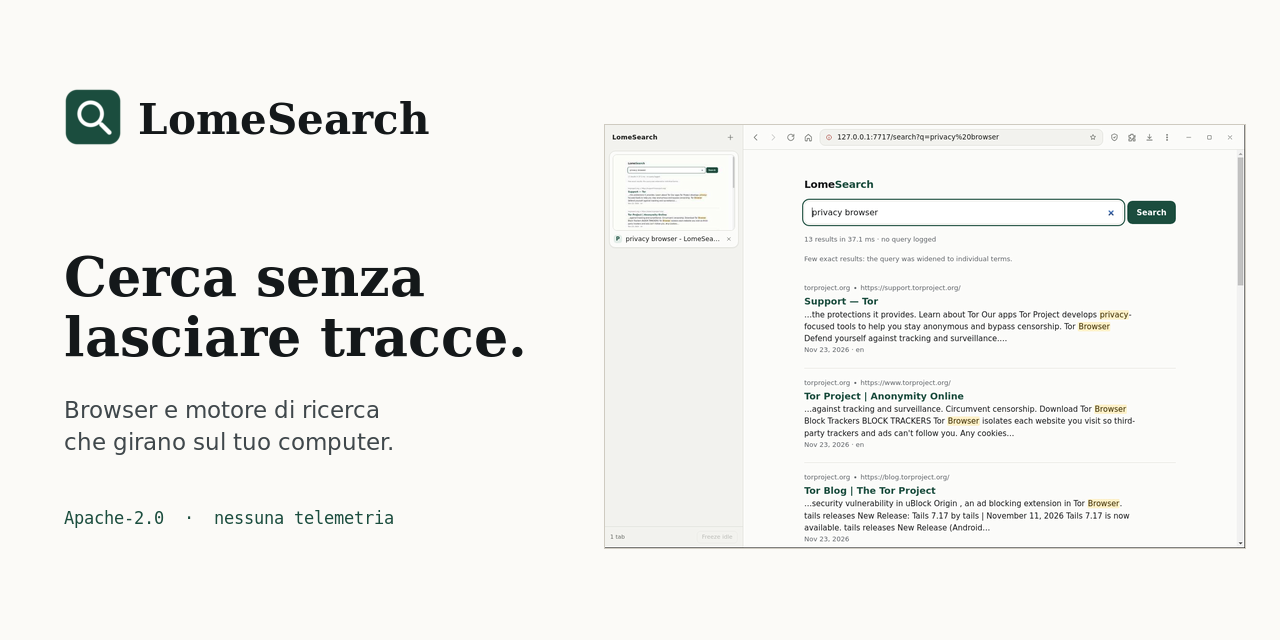
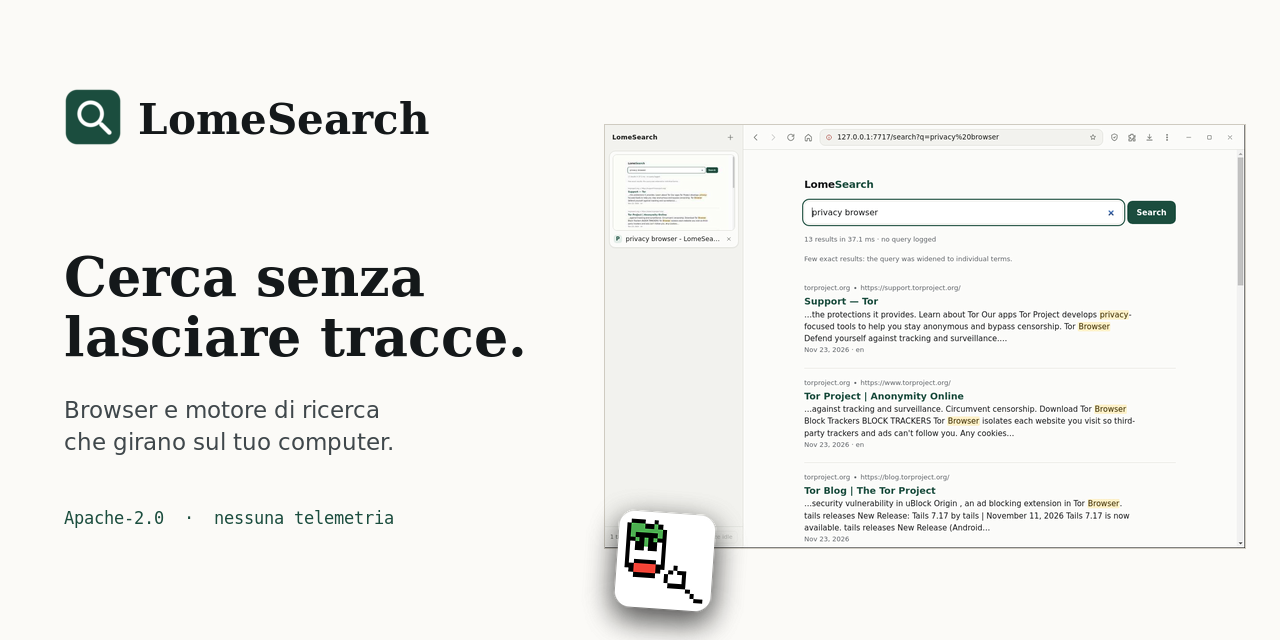
Put the mascot on the site, the error page and the empty results
The upload was a 1600x1600 pixel-art PNG on a 50px grid; it is now traced to
an 18x18 SVG (four paths, 813 bytes) so it stays crisp at every size. The
original export moves to site/assets/mascot/mascotte-source.png.

Surfaces using it: hero sticker on the screenshot corner, 404 page, og.png,
the browser error page and the engine's zero-results block.

Changed region(s): [[0.4688, 0.7812, 0.5938, 1.0]]

diff --git a/site/assets/css/site.css b/site/assets/css/site.css
@@ -22,6 +22,8 @@
   --mono: ui-monospace, SFMono-Regular, "SF Mono", Menlo, Consolas, "Liberation Mono", monospace;
   --radius: 4px;
   --radius-lg: 10px;
+  --mascot-plate: #ffffff;
+  --mascot-line: #cfcbc1;
 }
 
 [data-theme="dark"] {
@@ -39,6 +41,8 @@
   --green-soft: #16241f;
   --gold: #e0b25c;
   --gold-soft: #3b2e13;
+  --mascot-plate: #f7f5ef;
+  --mascot-line: #f7f5ef;
   --shadow: 0 30px 70px -40px rgba(0, 0, 0, 0.9);
 }
 
@@ -58,6 +62,8 @@
     --green-soft: #16241f;
     --gold: #e0b25c;
     --gold-soft: #3b2e13;
+    --mascot-plate: #f7f5ef;
+    --mascot-line: #f7f5ef;
     --shadow: 0 30px 70px -40px rgba(0, 0, 0, 0.9);
   }
 }
@@ -282,6 +288,28 @@ ol {
   display: none;
 }
 
+/* ---------- mascot ---------- */
+
+.mascot {
+  --mascot-size: 96px;
+  display: inline-grid;
+  place-items: center;
+  width: var(--mascot-size);
+  height: var(--mascot-size);
+  padding: calc(var(--mascot-size) * 0.1);
+  background: var(--mascot-plate);
+  border: 1px solid var(--mascot-line);
+  border-radius: calc(var(--mascot-size) * 0.16);
+  box-shadow: 0 20px 44px -26px rgba(9, 12, 11, 0.7);
+  line-height: 0;
+}
+
+.mascot img {
+  display: block;
+  width: 100%;
+  height: 100%;
+}
+
 /* ---------- hero ---------- */
 
 .hero {
@@ -294,6 +322,17 @@ ol {
   grid-template-columns: 1.08fr 1fr;
   gap: 3rem;
   align-items: center;
+}
+
+.hero__shot {
+  position: relative;
+}
+
+.hero__shot .mascot {
+  position: absolute;
+  left: -1.75rem;
+  bottom: -1.75rem;
+  transform: rotate(-4deg);
 }
 
 .kicker {
@@ -1163,6 +1202,12 @@ dialog.lightbox img {
   .hero__grid {
     grid-template-columns: 1fr;
     gap: 2.75rem;
+  }
+
+  .hero__shot .mascot {
+    --mascot-size: 64px;
+    left: 0.75rem;
+    bottom: -1.75rem;
   }
 
   .hero {

diff --git a/packages/engine/src/server/http.ts b/packages/engine/src/server/http.ts
@@ -54,6 +54,8 @@ const FAVICON = `<svg xmlns="http://www.w3.org/2000/svg" viewBox="0 0 32 32">
 <path d="M19 19l6 6" stroke="#e7f0ec" stroke-width="2.6" stroke-linecap="round"/>
 </svg>`;
 
+const MASCOT = `<svg xmlns="http://www.w3.org/2000/svg" viewBox="0 0 18 18" width="18" height="18" shape-rendering="crispEdges" role="img" aria-label="LomeSearch mascot"><path fill="#4caf50" d="M1 1h3v2h-3zM6 1h1v2h-1zM4 2h2v1h-2zM7 2h1v2h-1zM1 3h1v1h-1zM2 4h1v1h-1zM4 4h1v2h-1zM6 4h1v1h-1z"/><path fill="#000000" d="M1 0h3v1h-3zM6 0h1v1h-1zM0 1h1v10h-1zM4 1h2v1h-2zM7 1h1v1h-1zM8 2h1v9h-1zM2 3h5v1h-5zM1 4h1v1h-1zM3 4h1v3h-1zM5 4h1v3h-1zM7 4h1v1h-1zM2 5h1v2h-1zM6 5h1v2h-1zM2 9h5v1h-5zM1 10h1v2h-1zM7 10h1v2h-1zM11 10h1v1h-1zM10 11h1v1h-1zM12 11h2v1h-2zM2 12h5v1h-5zM9 12h1v2h-1zM13 12h1v3h-1zM10 14h3v1h-3zM14 15h1v1h-1zM15 16h1v1h-1zM16 17h2v1h-2z"/><path fill="#f44336" d="M2 10h5v2h-5z"/><path fill="#ffffff" d="M1 5h1v5h-1zM7 5h1v5h-1zM4 6h1v3h-1zM2 7h2v2h-2zM5 7h2v2h-2zM11 11h1v3h-1zM10 12h1v2h-1zM12 12h1v2h-1z"/></svg>`;
+
 class RateLimiter {
   private readonly buckets = new Map<string, { count: number; resetAt: number }>();
 
@@ -151,6 +153,15 @@ export async function startSearchServer(options: SearchServerOptions): Promise<S
         'cache-control': 'public, max-age=86400',
       });
       response.end(FAVICON);
+      return;
+    }
+
+    if (url.pathname === '/mascot.svg' && request.method === 'GET') {
+      response.writeHead(200, {
+        'content-type': 'image/svg+xml',
+        'cache-control': 'public, max-age=86400',
+      });
+      response.end(MASCOT);
       return;
     }
 

diff --git a/site/index.html b/site/index.html
@@ -206,20 +206,25 @@
             </ul>
           </div>
 
-          <div class="frame">
-            <div class="frame__bar">
-              <span class="frame__dot"></span>
-              <span class="frame__dot"></span>
-              <span class="frame__dot"></span>
-              <span class="frame__label">127.0.0.1:7717</span>
+          <div class="hero__shot">
+            <div class="frame">
+              <div class="frame__bar">
+                <span class="frame__dot"></span>
+                <span class="frame__dot"></span>
+                <span class="frame__dot"></span>
+                <span class="frame__label">127.0.0.1:7717</span>
+              </div>
+              <img
+                src="assets/shots/search.png"
+                width="1240"
+                height="820"
+                alt="La pagina dei risultati di LomeSearch: campo di ricerca, 13 risultati in 37,1 ms, snippet con i termini evidenziati."
+                fetchpriority="high"
+              />
             </div>
-            <img
-              src="assets/shots/search.png"
-              width="1240"
-              height="820"
-              alt="La pagina dei risultati di LomeSearch: campo di ricerca, 13 risultati in 37,1 ms, snippet con i termini evidenziati."
-              fetchpriority="high"
-            />
+            <span class="mascot" aria-hidden="true">
+              <img src="assets/mascot/mascotte.svg" width="18" height="18" alt="" />
+            </span>
           </div>
         </div>
       </section>

diff --git a/packages/engine/src/server/render.ts b/packages/engine/src/server/render.ts
@@ -94,6 +94,14 @@ p.snippet { margin: 0; font-size: 15px; color: var(--text); }
 mark { background: var(--mark); color: var(--mark-text); padding: 0 1px; border-radius: 2px; }
 .notice { background: var(--accent-soft); border: 1px solid var(--line); border-radius: 10px; padding: 12px 14px; font-size: 14px; }
 .empty { padding: 32px 0; }
+.empty .mascot {
+  display: block;
+  width: 64px;
+  height: 64px;
+  padding: 7px;
+  background: #ffffff;
+  border-radius: 12px;
+}
 .empty h2 { margin: 0 0 6px; font-size: 18px; }
 nav.pager { display: flex; gap: 10px; margin-top: 28px; }
 nav.pager a { padding: 8px 14px; border: 1px solid var(--line); border-radius: 8px; background: var(--surface); font-size: 14px; }
@@ -155,6 +163,7 @@ function renderResults(
   <p class="meta">No results for <strong>${escapeHtml(query)}</strong> in ${response.tookMs.toFixed(1)} ms.</p>
   ${suggestion}
   <div class="empty">
+    <img class="mascot" src="/mascot.svg" width="64" height="64" alt="">
     <h2>No document matches the query</h2>
     <p>Try fewer words, without quotes, or add more pages to the index with <code>lomesearch crawl</code>.</p>
   </div>

diff --git a/packages/browser/src/renderer/pages/common.css b/packages/browser/src/renderer/pages/common.css
@@ -265,6 +265,17 @@ td.num { text-align: right; font-variant-numeric: tabular-nums; }
 code, pre { font-family: ui-monospace, SFMono-Regular, Menlo, monospace; font-size: 12.5px; }
 pre { background: var(--surface-muted); padding: 12px; border-radius: 8px; overflow-x: auto; }
 
+.mascot {
+  display: block;
+  width: 88px;
+  height: 88px;
+  padding: 9px;
+  background: #ffffff;
+  border-radius: 16px;
+  box-shadow: 0 1px 2px rgba(20, 22, 18, 0.08), 0 14px 30px rgba(20, 22, 18, 0.10);
+}
+
 .error-page { max-width: 640px; margin: 0 auto; padding-top: 72px; }
+.error-page .mascot { margin-bottom: 24px; }
 .error-page h1 { font-size: 22px; }
 .error-page .url { word-break: break-all; color: var(--muted); font-size: 13px; margin: 8px 0 22px; }

diff --git a/site/404.html b/site/404.html
@@ -31,6 +31,11 @@
         text-transform: uppercase;
         color: var(--green);
       }
+      .not-found .mascot {
+        --mascot-size: 128px;
+        display: grid;
+        margin-bottom: 2rem;
+      }
       .not-found .actions {
         display: flex;
         flex-wrap: wrap;
@@ -42,6 +47,9 @@
   <body>
     <main class="not-found">
       <div class="not-found__inner">
+        <span class="mascot" aria-hidden="true">
+          <img src="assets/mascot/mascotte.svg" width="18" height="18" alt="" />
+        </span>
         <span class="meta">Errore 404</span>
         <h1>Questa pagina non è nell'indice.</h1>
         <p>

diff --git a/packages/browser/src/renderer/pages/error.ts b/packages/browser/src/renderer/pages/error.ts
@@ -31,6 +31,7 @@ const shell = el(
   el(
     'div',
     { class: 'error-page' },
+    el('img', { class: 'mascot', src: '/pages/mascotte.svg', alt: '', width: 88, height: 88 }),
     el('h1', {}, 'This site cannot be reached'),
     el('p', { class: 'muted' }, message),
     el('p', { class: 'url' }, url || description),

diff --git a/README.md b/README.md
@@ -24,6 +24,11 @@ privacy table and download links with checksums. It is plain HTML and CSS with n
 third-party requests, published by `.github/workflows/site.yml` once GitHub Pages
 is pointed at GitHub Actions for this repository.
 
+The mascot in `site/assets/mascot/` is 18×18 pixel art traced to a 813-byte SVG
+(`mascotte.svg`) so it stays sharp at any size; `mascotte-source.png` is the
+original export. The same SVG is reused by the browser error page and by the
+engine's empty-results page.
+
 ## Why another browser
 
 Chromium already ships a renderer, a sandbox and a web platform. What it does not
